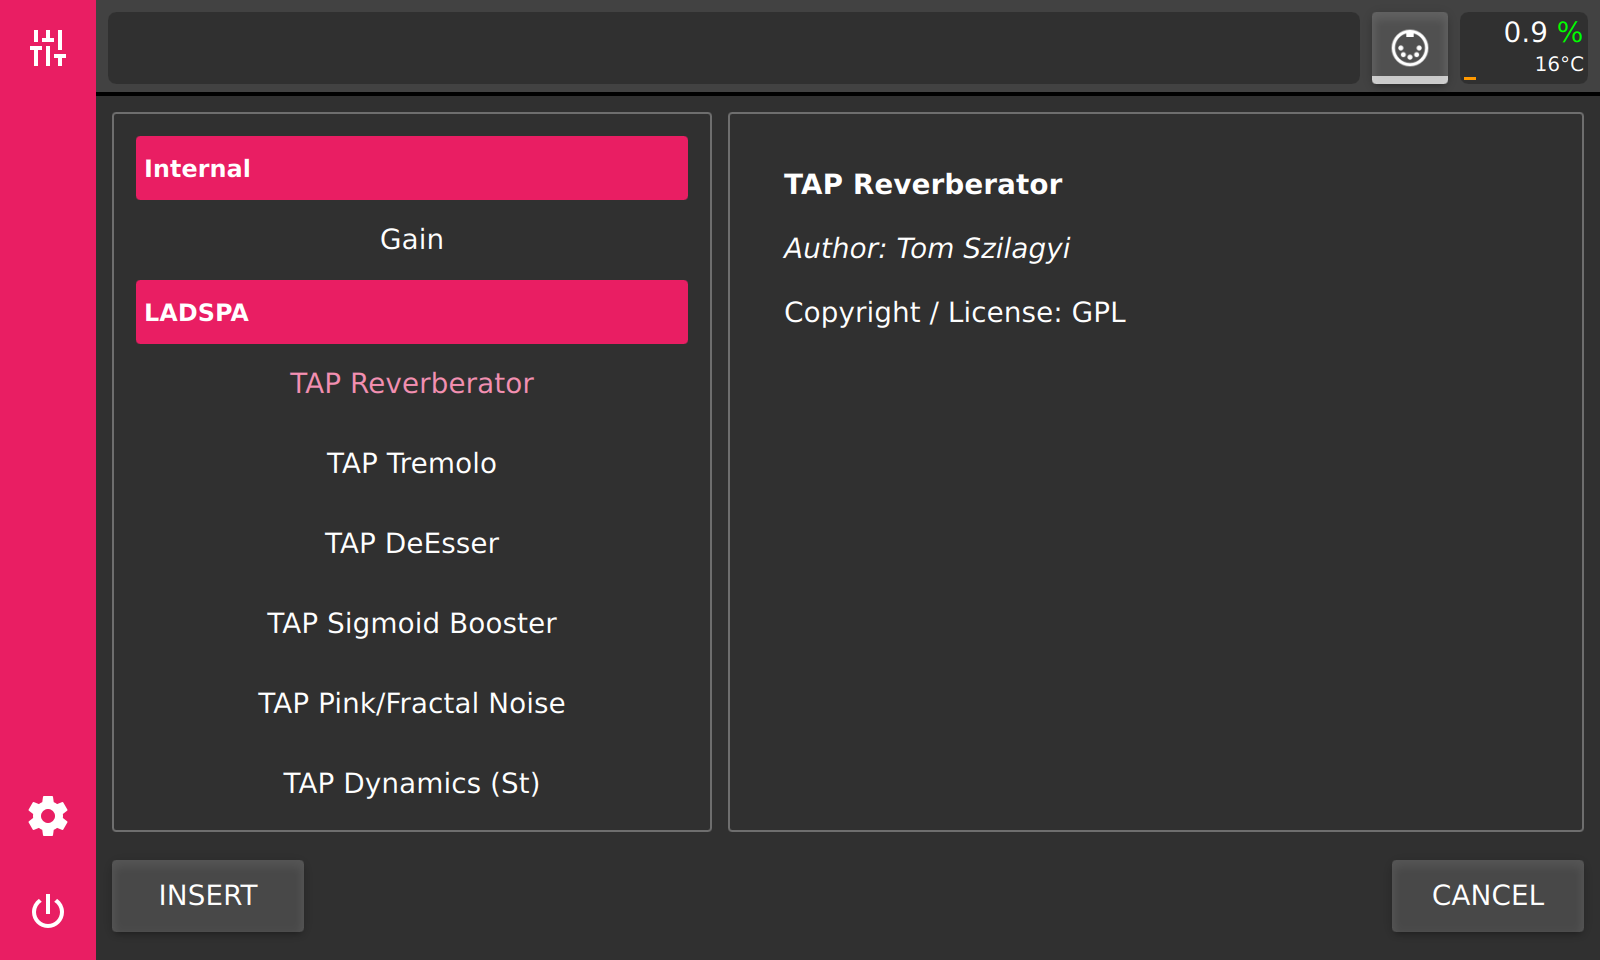
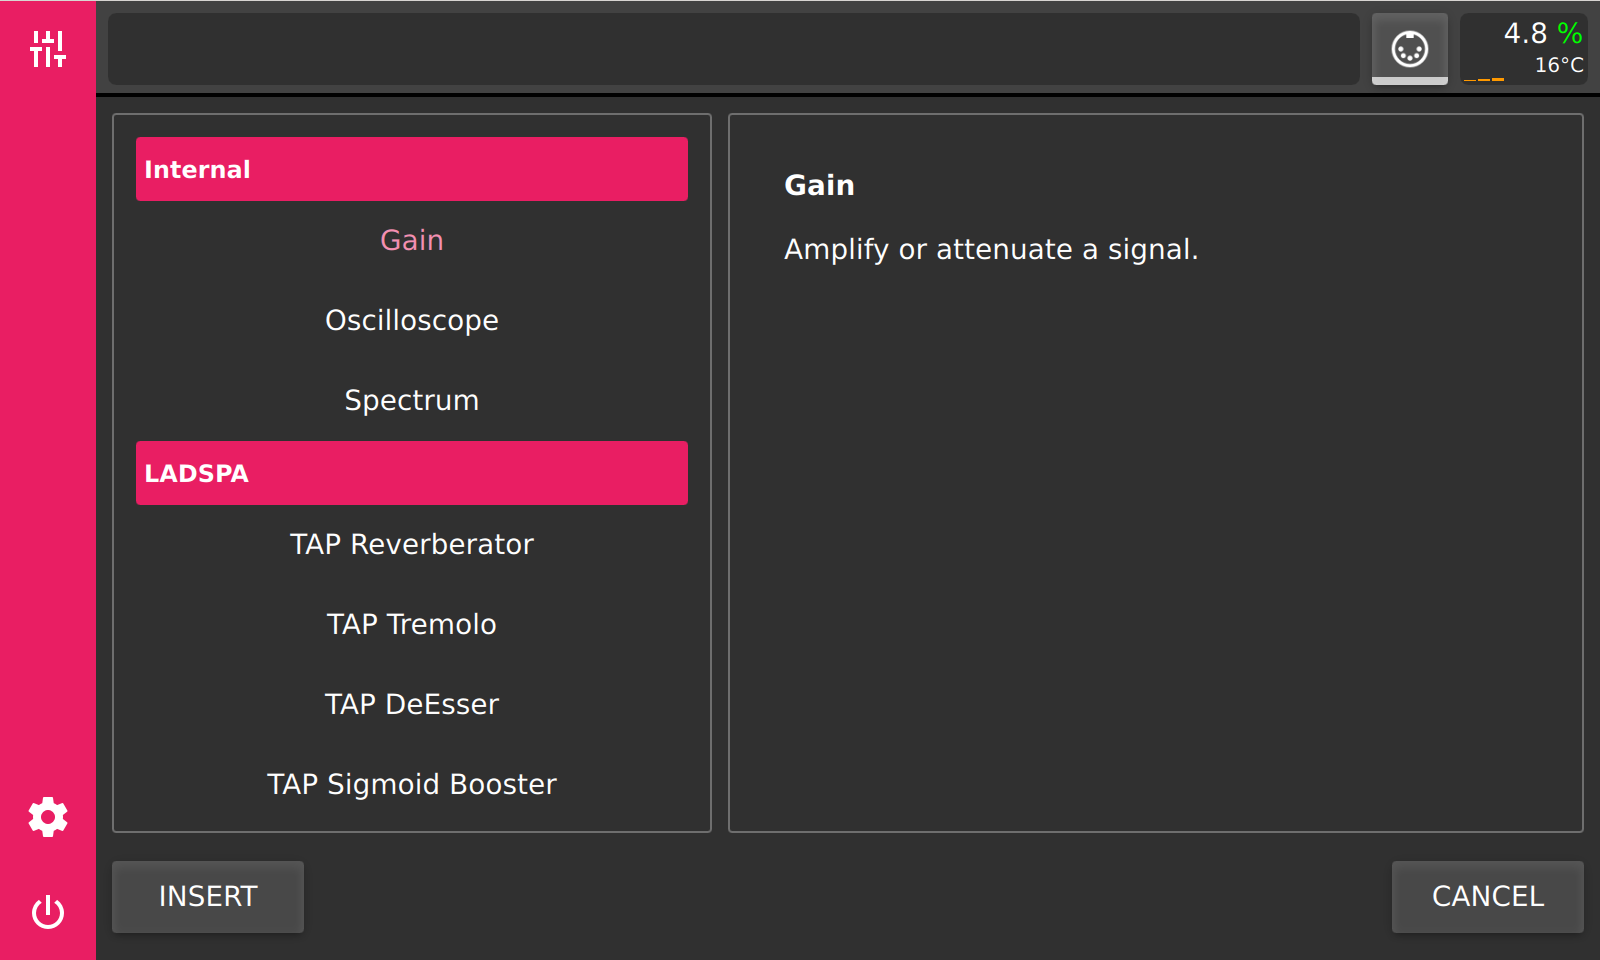
Update screenshots for v0.6.0

diff --git a/source/conf.py b/source/conf.py
@@ -22,7 +22,7 @@ copyright = '2020, Dimitrij Kotrev'
 author = 'Dimitrij Kotrev'
 
 # The full version, including alpha/beta/rc tags
-release = 'v0.5.1'
+release = 'v0.6.0'
 
 
 # -- General configuration ---------------------------------------------------

diff --git a/source/index.rst b/source/index.rst
@@ -27,6 +27,7 @@ Features
 * Fx chain per mixer channel
 * Support for LADSPA plugins
 * Parameter control through MIDI CC
+* Oscilloscope and Spectrum Analyzer
 
 User interface
 --------------
@@ -64,6 +65,16 @@ Mixer Edit View
 Fx chain
 
 .. image:: images/fx_chain.png
+   :align: center
+
+Oscilloscope
+
+.. image:: images/oscilloscope.png
+   :align: center
+
+Spectrum Analyzer
+
+.. image:: images/spectrum.png
    :align: center
 
 Fx browser
